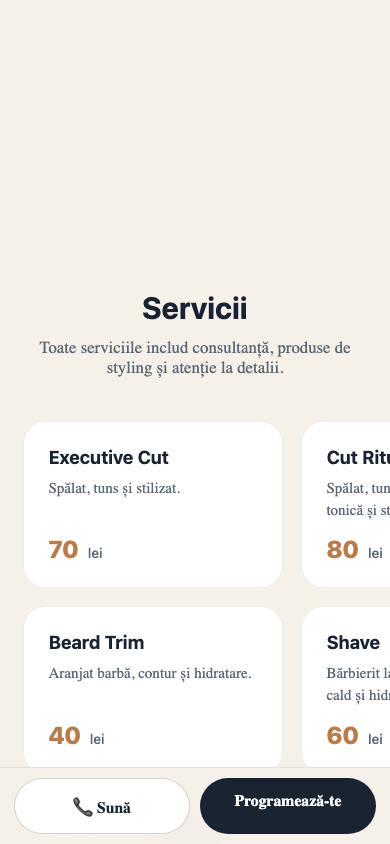
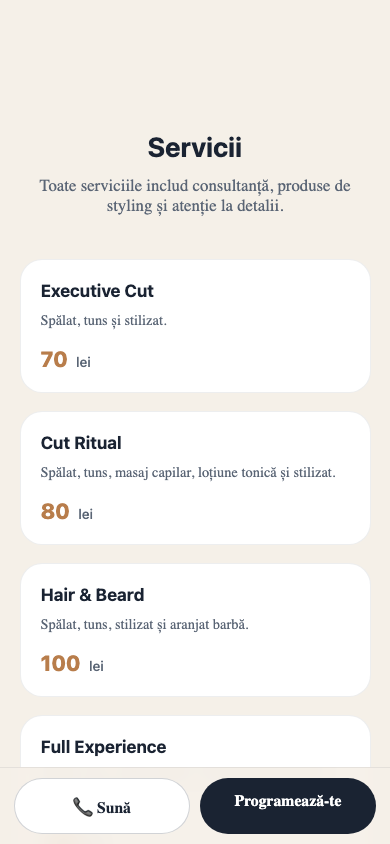
fix(responsive): îmbunătățește layout servicii pe tabletă
- ascunde rail-ul cu foarfecă pe ≤1200px ca să nu acopere cardurile
- serviciile trec pe 2 coloane la ≤1100px și 1 coloană la ≤700px
- reduce padding/font-size pe carduri la ecrane mijlocii
- regenerează screenshot-urile QA

diff --git a/index.html b/index.html
@@ -134,6 +134,9 @@
     .sw-brand { gap: 12px; }
     .sw-copy__title { text-shadow: 0 2px 14px color-mix(in srgb, var(--sw-bg) 92%, transparent); }
     .sw-copy__body { text-shadow: 0 1px 10px color-mix(in srgb, var(--sw-bg) 95%, transparent); }
+    @media (max-width: 1200px) {
+      .sw-scissors-rail { display: none; }
+    }
     @media (max-width: 860px) {
       .sw-copylayer::before {
         width: 100%; height: 70%;
@@ -141,8 +144,19 @@
       }
       .sw-copy { width: auto; right: clamp(18px, 5vw, 64px); }
       .sw-brand__name { display: none; }
-      .sw-scissors-rail { display: none; }
       .sw-hint { display: none; }
+    }
+    @media (max-width: 1100px) {
+      .services-grid { grid-template-columns: repeat(2, 1fr); }
+      .service-card { padding: 20px; }
+      .service-card__name { font-size: 1.08rem; }
+      .service-card__desc { font-size: .9rem; }
+      .service-card__price { font-size: 1.35rem; }
+    }
+    @media (max-width: 700px) {
+      .services-grid { grid-template-columns: 1fr; }
+      .services-section { padding: clamp(60px, 10vw, 90px) clamp(16px, 5vw, 40px); }
+      .services-section__head h2 { font-size: clamp(1.7rem, 6vw, 2.2rem); }
     }
   </style>
 </head>